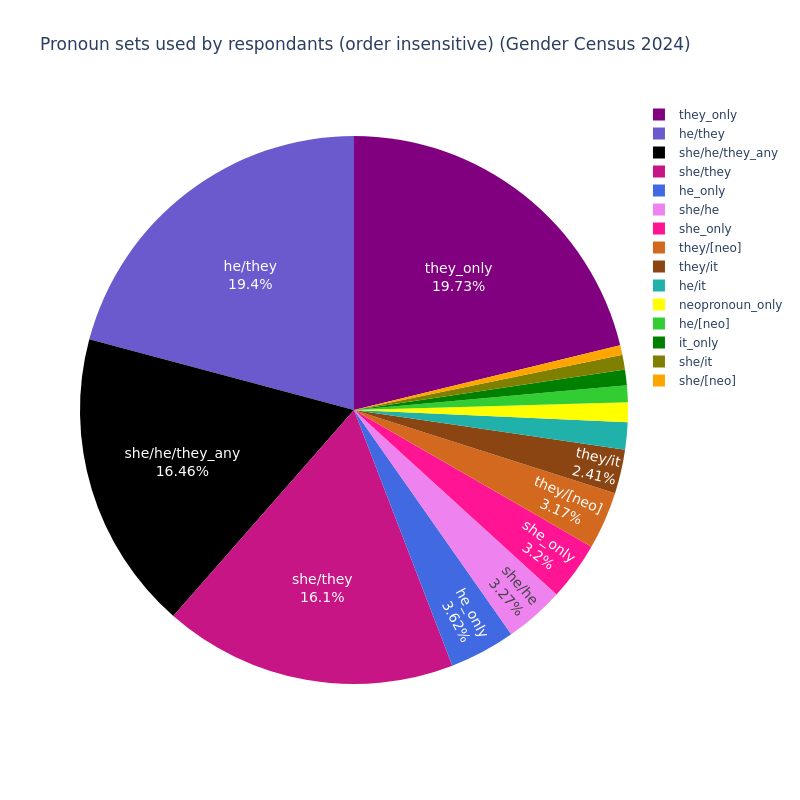
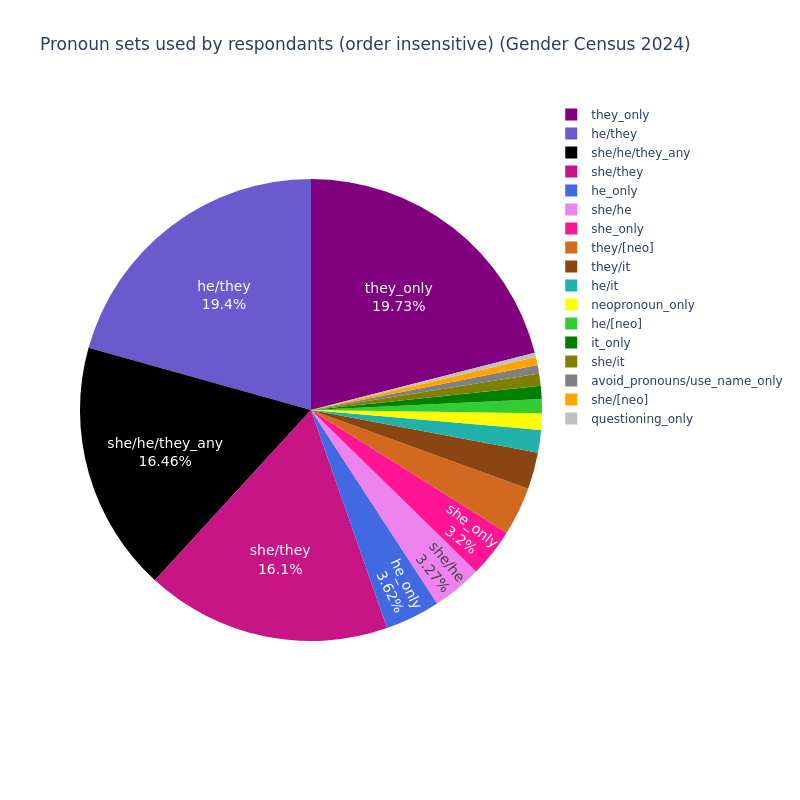
run to include questioning and avoid pronouns in relevant charts

diff --git a/visualisation/df_prep.py b/visualisation/df_prep.py
@@ -29,7 +29,9 @@ def count_df(input_df:pd.DataFrame, data_case:str):
             "he_only",
             "they_only",
             "it_only",
-            "neopronoun_only"
+            "neopronoun_only",
+            "avoid_pronouns/use_name_only",
+            "questioning_only",
         ]
     elif data_case == "big_three_combos":
         get_list = [
@@ -63,7 +65,9 @@ def count_df(input_df:pd.DataFrame, data_case:str):
             "they/it",
             "he/[neo]",
             "she/[neo]",
-            "they/[neo]"
+            "they/[neo]",
+            "avoid_pronouns/use_name_only",
+            "questioning_only",
         ]
     new_series = new_series.get(get_list)
 
@@ -88,7 +92,9 @@ def count_df(input_df:pd.DataFrame, data_case:str):
             "she/he",
             "she/he/they_any",
             "they/it",
-            "they/[neo]"
+            "they/[neo]",
+            "avoid_pronouns/use_name_only",
+            "questioning_only",
         ]
 
         new_series["female_aligned"] = new_series.get(female_aligned).agg("sum")
